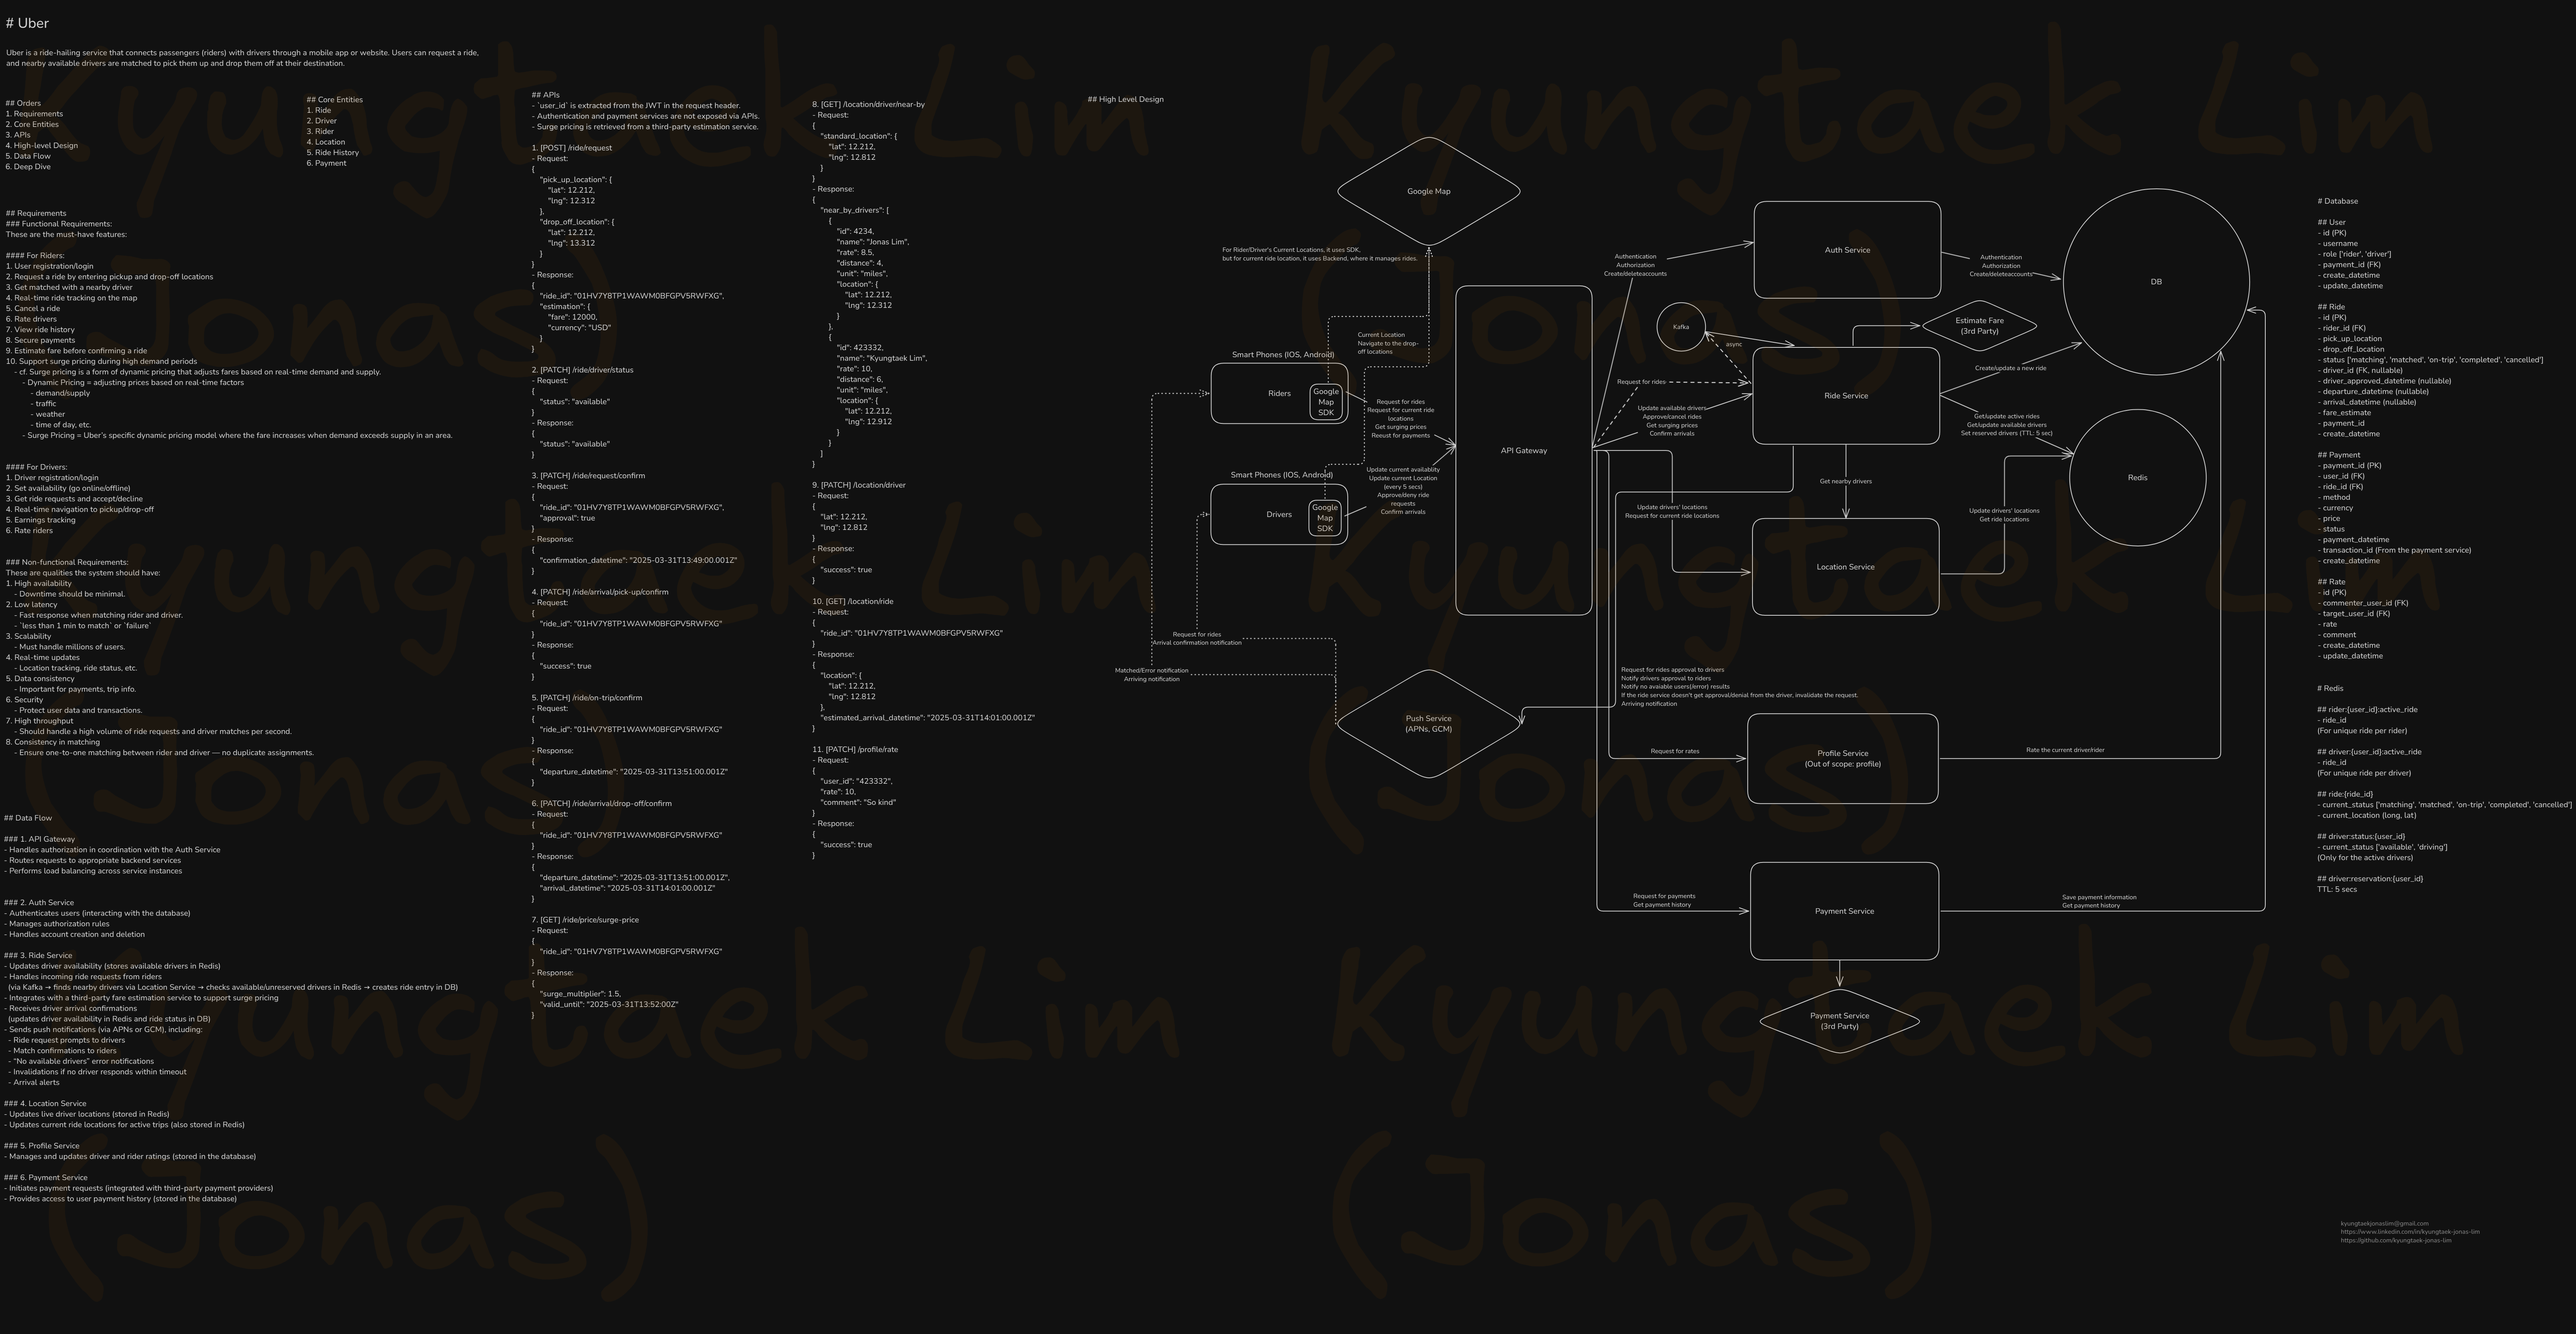
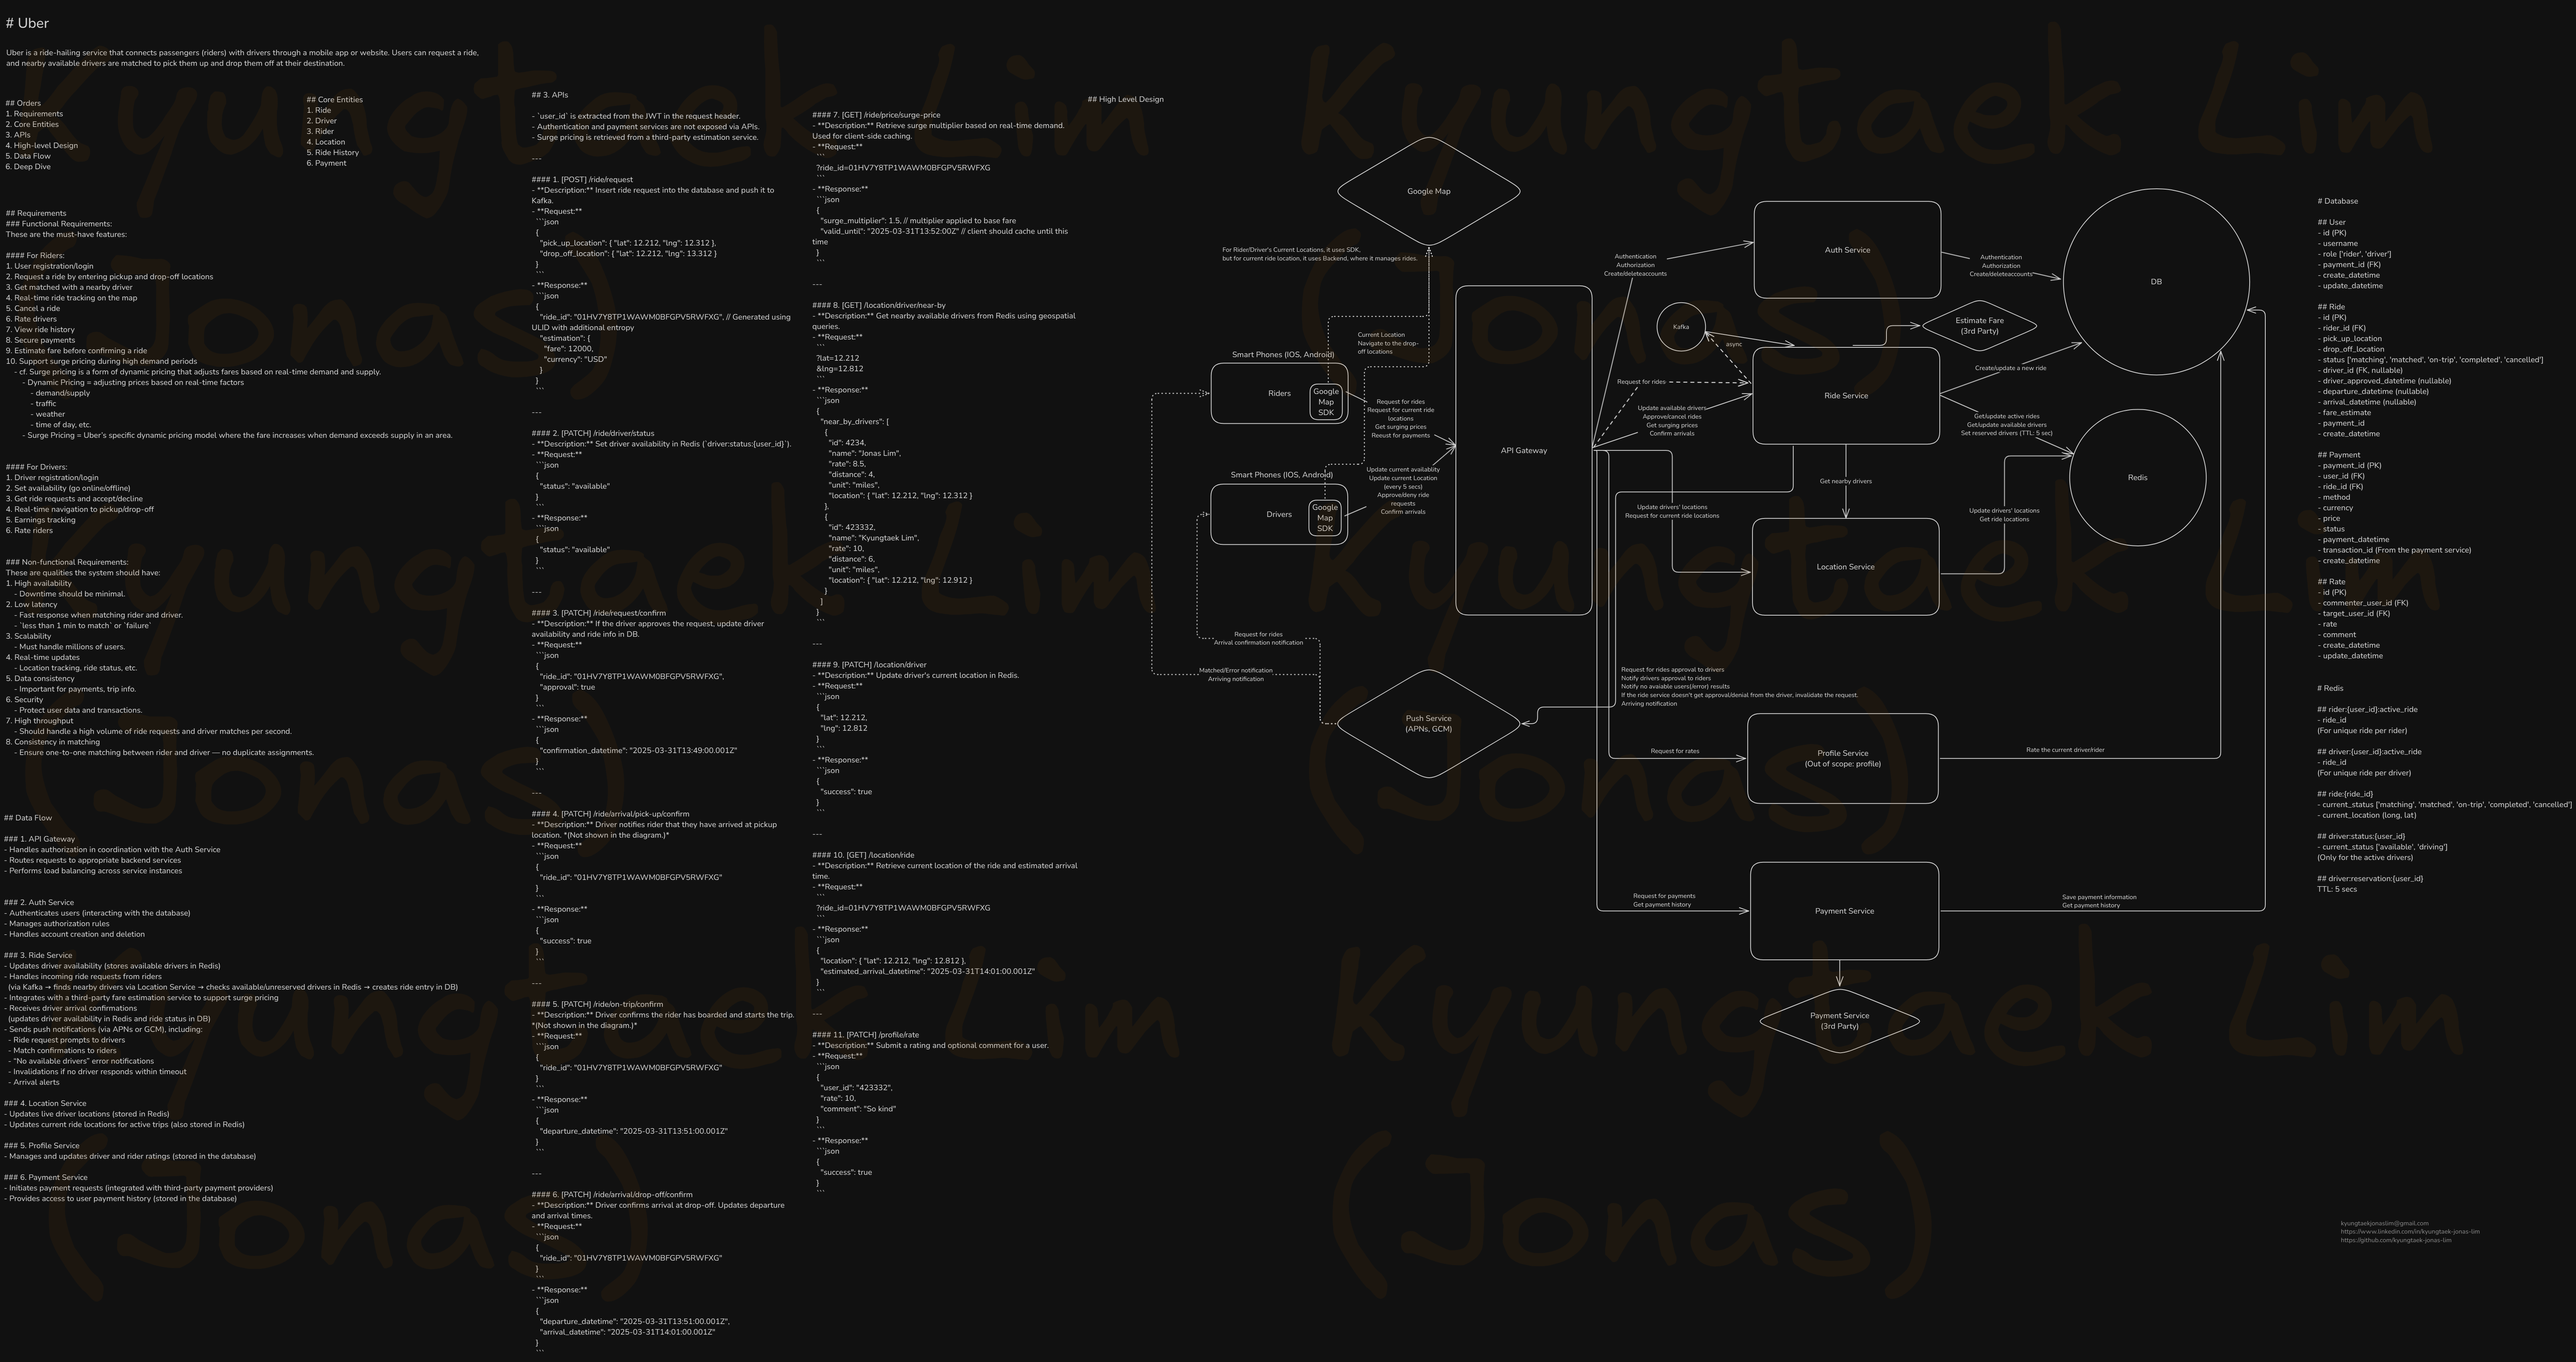
[Uber] Updated APIs

diff --git a/uber/uber.md b/uber/uber.md
@@ -123,216 +123,211 @@ These are qualities the system should have:
 #### 1. [POST] /ride/request  
 - **Description:** Insert ride request into the database and push it to Kafka.
 - **Request:**  
-```json
-{
-  "pick_up_location": { "lat": 12.212, "lng": 12.312 },
-  "drop_off_location": { "lat": 12.212, "lng": 13.312 }
-}
-```
-- **Response:**  
-```json
-{
-  "ride_id": "01HV7Y8TP1WAWM0BFGPV5RWFXG", // Generated using ULID with additional entropy
-  "estimation": {
-    "fare": 12000,
-    "currency": "USD"
+  ```json
+  {
+    "pick_up_location": { "lat": 12.212, "lng": 12.312 },
+    "drop_off_location": { "lat": 12.212, "lng": 13.312 }
   }
-}
-```
+  ```
+- **Response:**  
+  ```json
+  {
+    "ride_id": "01HV7Y8TP1WAWM0BFGPV5RWFXG", // Generated using ULID with additional entropy
+    "estimation": {
+      "fare": 12000,
+      "currency": "USD"
+    }
+  }
+  ```
 
 ---
 
 #### 2. [PATCH] /ride/driver/status  
 - **Description:** Set driver availability in Redis (`driver:status:{user_id}`).
 - **Request:**  
-```json
-{
-  "status": "available"
-}
-```
+  ```json
+  {
+    "status": "available"
+  }
+  ```
 - **Response:**  
-```json
-{
-  "status": "available"
-}
-```
+  ```json
+  {
+    "status": "available"
+  }
+  ```
 
 ---
 
 #### 3. [PATCH] /ride/request/confirm  
 - **Description:** If the driver approves the request, update driver availability and ride info in DB.
 - **Request:**  
-```json
-{
-  "ride_id": "01HV7Y8TP1WAWM0BFGPV5RWFXG",
-  "approval": true
-}
-```
+  ```json
+  {
+    "ride_id": "01HV7Y8TP1WAWM0BFGPV5RWFXG",
+    "approval": true
+  }
+  ```
 - **Response:**  
-```json
-{
-  "confirmation_datetime": "2025-03-31T13:49:00.001Z"
-}
-```
+  ```json
+  {
+    "confirmation_datetime": "2025-03-31T13:49:00.001Z"
+  }
+  ```
 
 ---
 
 #### 4. [PATCH] /ride/arrival/pick-up/confirm  
 - **Description:** Driver notifies rider that they have arrived at pickup location. *(Not shown in the diagram.)*
 - **Request:**  
-```json
-{
-  "ride_id": "01HV7Y8TP1WAWM0BFGPV5RWFXG"
-}
-```
+  ```json
+  {
+    "ride_id": "01HV7Y8TP1WAWM0BFGPV5RWFXG"
+  }
+  ```
 - **Response:**  
-```json
-{
-  "success": true
-}
-```
+  ```json
+  {
+    "success": true
+  }
+  ```
 
 ---
 
 #### 5. [PATCH] /ride/on-trip/confirm  
 - **Description:** Driver confirms the rider has boarded and starts the trip. *(Not shown in the diagram.)*
 - **Request:**  
-```json
-{
-  "ride_id": "01HV7Y8TP1WAWM0BFGPV5RWFXG"
-}
-```
+  ```json
+  {
+    "ride_id": "01HV7Y8TP1WAWM0BFGPV5RWFXG"
+  }
+  ```
 - **Response:**  
-```json
-{
-  "departure_datetime": "2025-03-31T13:51:00.001Z"
-}
-```
+  ```json
+  {
+    "departure_datetime": "2025-03-31T13:51:00.001Z"
+  }
+  ```
 
 ---
 
 #### 6. [PATCH] /ride/arrival/drop-off/confirm  
 - **Description:** Driver confirms arrival at drop-off. Updates departure and arrival times.
 - **Request:**  
-```json
-{
-  "ride_id": "01HV7Y8TP1WAWM0BFGPV5RWFXG"
-}
-```
+  ```json
+  {
+    "ride_id": "01HV7Y8TP1WAWM0BFGPV5RWFXG"
+  }
+  ```
 - **Response:**  
-```json
-{
-  "departure_datetime": "2025-03-31T13:51:00.001Z",
-  "arrival_datetime": "2025-03-31T14:01:00.001Z"
-}
-```
+  ```json
+  {
+    "departure_datetime": "2025-03-31T13:51:00.001Z",
+    "arrival_datetime": "2025-03-31T14:01:00.001Z"
+  }
+  ```
 
 ---
 
 #### 7. [GET] /ride/price/surge-price  
 - **Description:** Retrieve surge multiplier based on real-time demand. Used for client-side caching.
 - **Request:**  
-```json
-{
-  "ride_id": "01HV7Y8TP1WAWM0BFGPV5RWFXG"
-}
-```
+  ```
+  ?ride_id=01HV7Y8TP1WAWM0BFGPV5RWFXG
+  ```
 - **Response:**  
-```json
-{
-  "surge_multiplier": 1.5, // multiplier applied to base fare
-  "valid_until": "2025-03-31T13:52:00Z" // client should cache until this time
-}
-```
+  ```json
+  {
+    "surge_multiplier": 1.5, // multiplier applied to base fare
+    "valid_until": "2025-03-31T13:52:00Z" // client should cache until this time
+  }
+  ```
 
 ---
 
 #### 8. [GET] /location/driver/near-by  
 - **Description:** Get nearby available drivers from Redis using geospatial queries.
 - **Request:**  
-```json
-{
-  "standard_location": { "lat": 12.212, "lng": 12.812 }
-}
-```
+  ```
+  ?lat=12.212
+  &lng=12.812
+  ```
 - **Response:**  
-```json
-{
-  "near_by_drivers": [
-    {
-      "id": 4234,
-      "name": "Jonas Lim",
-      "rate": 8.5,
-      "distance": 4,
-      "unit": "miles",
-      "location": { "lat": 12.212, "lng": 12.312 }
-    },
-    {
-      "id": 423332,
-      "name": "Kyungtaek Lim",
-      "rate": 10,
-      "distance": 6,
-      "unit": "miles",
-      "location": { "lat": 12.212, "lng": 12.912 }
-    }
-  ]
-}
-```
+  ```json
+  {
+    "near_by_drivers": [
+      {
+        "id": 4234,
+        "name": "Jonas Lim",
+        "rate": 8.5,
+        "distance": 4,
+        "unit": "miles",
+        "location": { "lat": 12.212, "lng": 12.312 }
+      },
+      {
+        "id": 423332,
+        "name": "Kyungtaek Lim",
+        "rate": 10,
+        "distance": 6,
+        "unit": "miles",
+        "location": { "lat": 12.212, "lng": 12.912 }
+      }
+    ]
+  }
+  ```
 
 ---
 
 #### 9. [PATCH] /location/driver  
 - **Description:** Update driver's current location in Redis.
 - **Request:**  
-```json
-{
-  "lat": 12.212,
-  "lng": 12.812
-}
-```
+  ```json
+  {
+    "lat": 12.212,
+    "lng": 12.812
+  }
+  ```
 - **Response:**  
-```json
-{
-  "success": true
-}
-```
+  ```json
+  {
+    "success": true
+  }
+  ```
 
 ---
 
 #### 10. [GET] /location/ride  
 - **Description:** Retrieve current location of the ride and estimated arrival time.
 - **Request:**  
-```json
-{
-  "ride_id": "01HV7Y8TP1WAWM0BFGPV5RWFXG"
-}
-```
+  ```
+  ?ride_id=01HV7Y8TP1WAWM0BFGPV5RWFXG
+  ```
 - **Response:**  
-```json
-{
-  "location": { "lat": 12.212, "lng": 12.812 },
-  "estimated_arrival_datetime": "2025-03-31T14:01:00.001Z"
-}
-```
+  ```json
+  {
+    "location": { "lat": 12.212, "lng": 12.812 },
+    "estimated_arrival_datetime": "2025-03-31T14:01:00.001Z"
+  }
+  ```
 
 ---
 
 #### 11. [PATCH] /profile/rate  
 - **Description:** Submit a rating and optional comment for a user.
 - **Request:**  
-```json
-{
-  "user_id": "423332",
-  "rate": 10,
-  "comment": "So kind"
-}
-```
+  ```json
+  {
+    "user_id": "423332",
+    "rate": 10,
+    "comment": "So kind"
+  }
+  ```
 - **Response:**  
-```json
-{
-  "success": true
-}
-```
+  ```json
+  {
+    "success": true
+  }
+  ```
 
 
 &nbsp;
